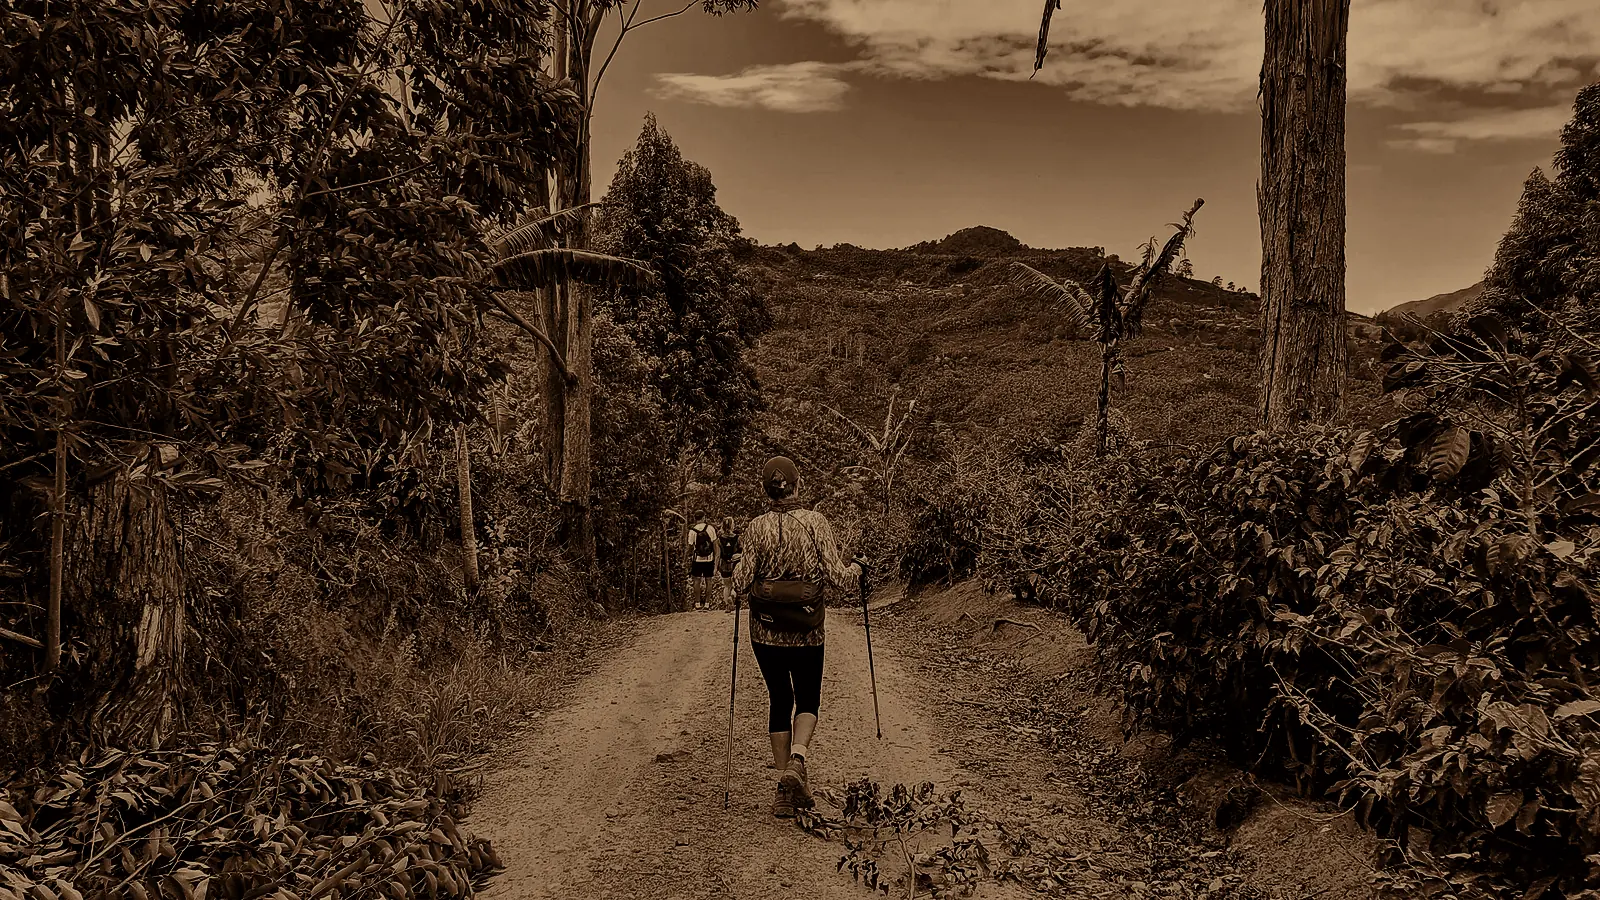
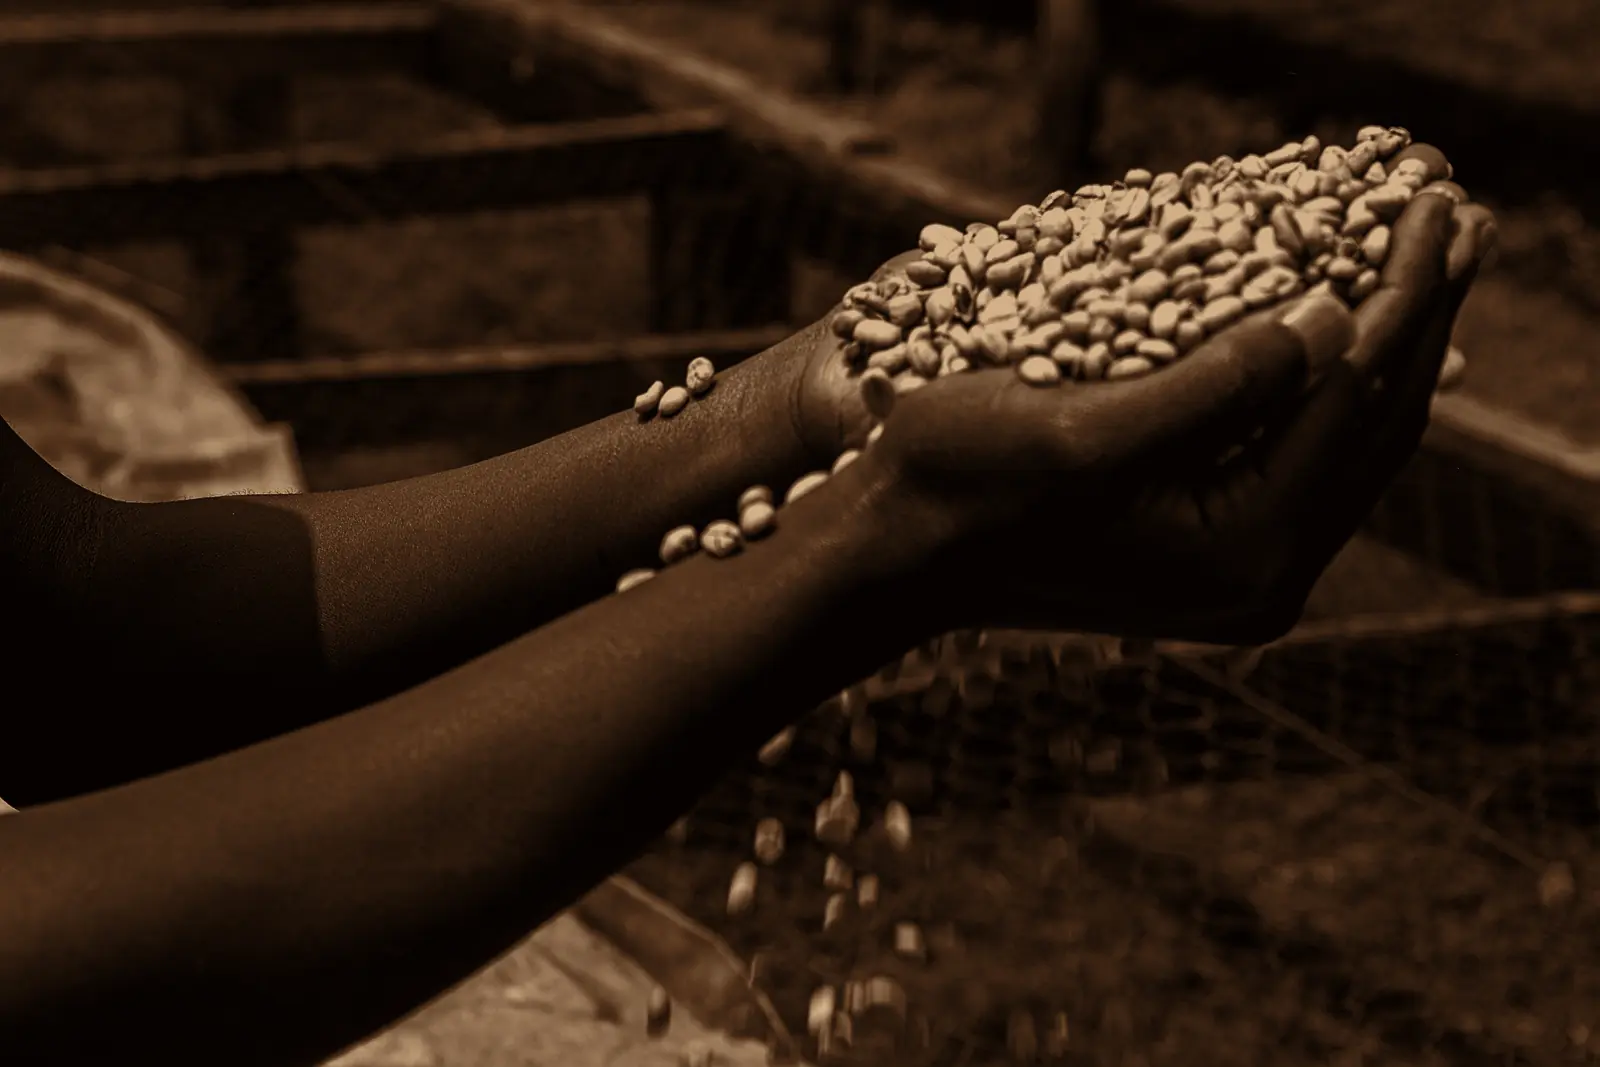
New Process photo, collapsible Perfect Pairs section

diff --git a/js/credits.js b/js/credits.js
@@ -1,1 +1,1 @@
-window.RR_CREDITS={"hero": {"title": "Coffee ceremony of Ethiopia and Eritrea 3", "artist": "ProtoplasmaKid", "license": "CC BY-SA 4.0", "page": "https://commons.wikimedia.org/wiki/File:Coffee_ceremony_of_Ethiopia_and_Eritrea_3.jpg"}, "ceremony": {"title": "Coffee ceremony of Ethiopia and Eritrea 1", "artist": "ProtoplasmaKid", "license": "CC BY-SA 4.0", "page": "https://commons.wikimedia.org/wiki/File:Coffee_ceremony_of_Ethiopia_and_Eritrea_1.jpg"}, "colombia": {"title": "Coffee Beans macro 5", "artist": "Daniel Schwen", "license": "CC BY 3.0", "page": "https://commons.wikimedia.org/wiki/File:Coffee_Beans_macro_5.jpg"}, "cherries": {"title": "Coffee-cherries-green-coffee-tarrazu-costa-rica", "artist": "Tarrazu at en.wikipedia", "license": "Public domain", "page": "https://commons.wikimedia.org/wiki/File:Coffee-cherries-green-coffee-tarrazu-costa-rica.jpg"}, "vietnam": {"title": "Ca Phe Sua Da", "artist": "Clarin", "license": "CC BY 2.5", "page": "https://commons.wikimedia.org/wiki/File:Ca_Phe_Sua_Da.jpg"}, "filter": {"title": "South Indian Filter Kaapi aka Coffee 04", "artist": "Nizil Shah", "license": "CC BY-SA 4.0", "page": "https://commons.wikimedia.org/wiki/File:South_Indian_Filter_Kaapi_aka_Coffee_04.jpg"}, "kenya": {"title": "Starr-140917-1898-Coffea arabica-steaming hot coffee in cabin-Holua Hilton HNP-Maui (24950780600)", "artist": "Forest and Kim Starr", "license": "CC BY 3.0 us", "page": "https://commons.wikimedia.org/wiki/File:Starr-140917-1898-Coffea_arabica-steaming_hot_coffee_in_cabin-Holua_Hilton_HNP-Maui_(24950780600).jpg"}, "origin": {"title": "Camino de Costa Roca Coffee plantation hike", "artist": "Pigment-Ink", "license": "CC BY-SA 4.0", "page": "https://commons.wikimedia.org/wiki/File:Camino_de_Costa_Roca_Coffee_plantation_hike.jpg"}, "drum": {"title": "CaffÃ¨ roasting", "artist": "MarcoMotti123", "license": "CC BY-SA 4.0", "page": "https://commons.wikimedia.org/wiki/File:Caff%C3%A8_roasting.jpg"}, "brew": {"title": "Black coffee cup (Unsplash)", "artist": "Ross Parmly rparmly", "license": "CC0", "page": "https://commons.wikimedia.org/wiki/File:Black_coffee_cup_(Unsplash).jpg"}};
+window.RR_CREDITS={"hero": {"title": "Coffee ceremony of Ethiopia and Eritrea 3", "artist": "ProtoplasmaKid", "license": "CC BY-SA 4.0", "page": "https://commons.wikimedia.org/wiki/File:Coffee_ceremony_of_Ethiopia_and_Eritrea_3.jpg"}, "ceremony": {"title": "Coffee ceremony of Ethiopia and Eritrea 1", "artist": "ProtoplasmaKid", "license": "CC BY-SA 4.0", "page": "https://commons.wikimedia.org/wiki/File:Coffee_ceremony_of_Ethiopia_and_Eritrea_1.jpg"}, "colombia": {"title": "Coffee Beans macro 5", "artist": "Daniel Schwen", "license": "CC BY 3.0", "page": "https://commons.wikimedia.org/wiki/File:Coffee_Beans_macro_5.jpg"}, "cherries": {"title": "Coffee-cherries-green-coffee-tarrazu-costa-rica", "artist": "Tarrazu at en.wikipedia", "license": "Public domain", "page": "https://commons.wikimedia.org/wiki/File:Coffee-cherries-green-coffee-tarrazu-costa-rica.jpg"}, "vietnam": {"title": "Ca Phe Sua Da", "artist": "Clarin", "license": "CC BY 2.5", "page": "https://commons.wikimedia.org/wiki/File:Ca_Phe_Sua_Da.jpg"}, "filter": {"title": "South Indian Filter Kaapi aka Coffee 04", "artist": "Nizil Shah", "license": "CC BY-SA 4.0", "page": "https://commons.wikimedia.org/wiki/File:South_Indian_Filter_Kaapi_aka_Coffee_04.jpg"}, "kenya": {"title": "Starr-140917-1898-Coffea arabica-steaming hot coffee in cabin-Holua Hilton HNP-Maui (24950780600)", "artist": "Forest and Kim Starr", "license": "CC BY 3.0 us", "page": "https://commons.wikimedia.org/wiki/File:Starr-140917-1898-Coffea_arabica-steaming_hot_coffee_in_cabin-Holua_Hilton_HNP-Maui_(24950780600).jpg"}, "origin": {"title": "Drying coffee beans in guide's hands at Fairview Estate, Kiambu, KE", "artist": "Daniel Case", "license": "CC BY-SA 4.0", "page": "https://commons.wikimedia.org/wiki/File:Drying_coffee_beans_in_guide%27s_hands_at_Fairview_Estate,_Kiambu,_KE.jpg"}, "drum": {"title": "CaffÃ¨ roasting", "artist": "MarcoMotti123", "license": "CC BY-SA 4.0", "page": "https://commons.wikimedia.org/wiki/File:Caff%C3%A8_roasting.jpg"}, "brew": {"title": "Black coffee cup (Unsplash)", "artist": "Ross Parmly rparmly", "license": "CC0", "page": "https://commons.wikimedia.org/wiki/File:Black_coffee_cup_(Unsplash).jpg"}};

diff --git a/index.html b/index.html
@@ -97,7 +97,7 @@
           <p>Coffee starts as the seed of a fruit. Cherries ripen from green to deep red, and only the ripe ones are picked by hand. One tree gives roughly half a kilo to a kilo of roasted coffee a year.</p></div>
       </article>
       <article class="jstep">
-        <figure><img src="images/origin.webp" alt="A path through a coffee farm on a hillside" loading="lazy"></figure>
+        <figure><img src="images/origin.webp" alt="Hands holding sun-dried coffee beans over a drying bed" loading="lazy"></figure>
         <div class="jtxt"><span class="jn">02</span><h3>Process</h3>
           <p>After picking, the seeds are separated from the fruit. Natural coffee dries whole in the sun for weeks and turns sweet and fruity. Washed coffee has the fruit removed in water and tastes clean and bright.</p></div>
       </article>
@@ -195,7 +195,10 @@
     <p class="eyebrow">Perfect Pairs</p>
     <h2 class="h-med">Coffee <i>and</i> a Bite</h2>
     <p class="rec-sub">Six combinations that work. Open one to see both recipes together.</p>
+    <button class="rec-open" id="pairsOpen" aria-expanded="false"><span class="ro-label">See pairs</span><span class="ro-count">· 6 pairs</span><i class="ro-ico"></i></button>
+    <div class="rec-body" id="pairsBody"><div class="rec-body-in">
     <div class="pairs-grid" id="pairsGrid"></div>
+    </div></div>
   </div>
 </section>
 

diff --git a/js/app.js b/js/app.js
@@ -148,6 +148,17 @@
     return `<button class="pair" data-i="${i}"><span class="kind"><span class="${k}">${k}</span></span>
       <span class="pr-names"><span>${c.name}</span><i>+</i><span>${s.name}</span></span><p>${p.why}</p><span class="more">See both recipes &rarr;</span></button>`;
   }).join('');
+  { const pb = $('#pairsOpen'), pbody = $('#pairsBody'); let pOpen = false;
+    const setP = v => {
+      pOpen = v; pb.setAttribute('aria-expanded', v); pb.classList.toggle('on', v);
+      $('.ro-label', pb).textContent = v ? 'Hide pairs' : 'See pairs';
+      if (typeof hasG !== 'undefined' ? hasG && !reduce : !reduce) {
+        G.to(pbody, { height: v ? 'auto' : 0, duration: .9, ease: 'power3.inOut', onComplete() { ScrollTrigger.refresh(); } });
+        if (v) G.fromTo($$('.pair', pbody), { y: 30, opacity: 0 }, { y: 0, opacity: 1, duration: .7, stagger: .06, delay: .35, ease: 'power3.out' });
+      } else { pbody.style.height = v ? 'auto' : '0'; }
+    };
+    pb.addEventListener('click', () => setP(!pOpen));
+    $('#pairs .h-med').addEventListener('click', () => setP(!pOpen)); }
   $('#pairsGrid').addEventListener('click', e => { const b = e.target.closest('.pair'); if (!b) return; const p = D.pairs[+b.dataset.i]; openModal([p.coffee, p.snack], p); });
 
   /* ---------- recipe modal with timers ---------- */

diff --git a/css/style.css b/css/style.css
@@ -221,8 +221,9 @@ main,footer{position:relative;z-index:2}
 
 /* pairs */
 .pairs{padding:7rem clamp(1.2rem,6vw,6rem);background:var(--bg)}
-.pairs-inner{max-width:1200px;margin:0 auto}
-.pairs-grid{display:grid;grid-template-columns:repeat(auto-fill,minmax(340px,1fr));gap:1.2rem;margin-top:2.5rem}
+.pairs-inner{max-width:1200px;margin:0 auto;--acc:var(--copper)}
+.pairs .h-med{cursor:pointer}
+.pairs-grid{display:grid;grid-template-columns:repeat(auto-fill,minmax(340px,1fr));gap:1.2rem}
 .pair{text-align:left;display:flex;flex-direction:column;gap:.9rem;padding:1.7rem;border:1px solid var(--line);border-radius:20px;background:var(--bg2);transition:border-color .4s,transform .5s var(--ease)}
 .pair:hover{border-color:var(--copper)}
 .pair .pr-names{display:flex;align-items:center;gap:.8rem;flex-wrap:wrap;font-family:var(--serif);font-size:1.6rem;line-height:1.1}
